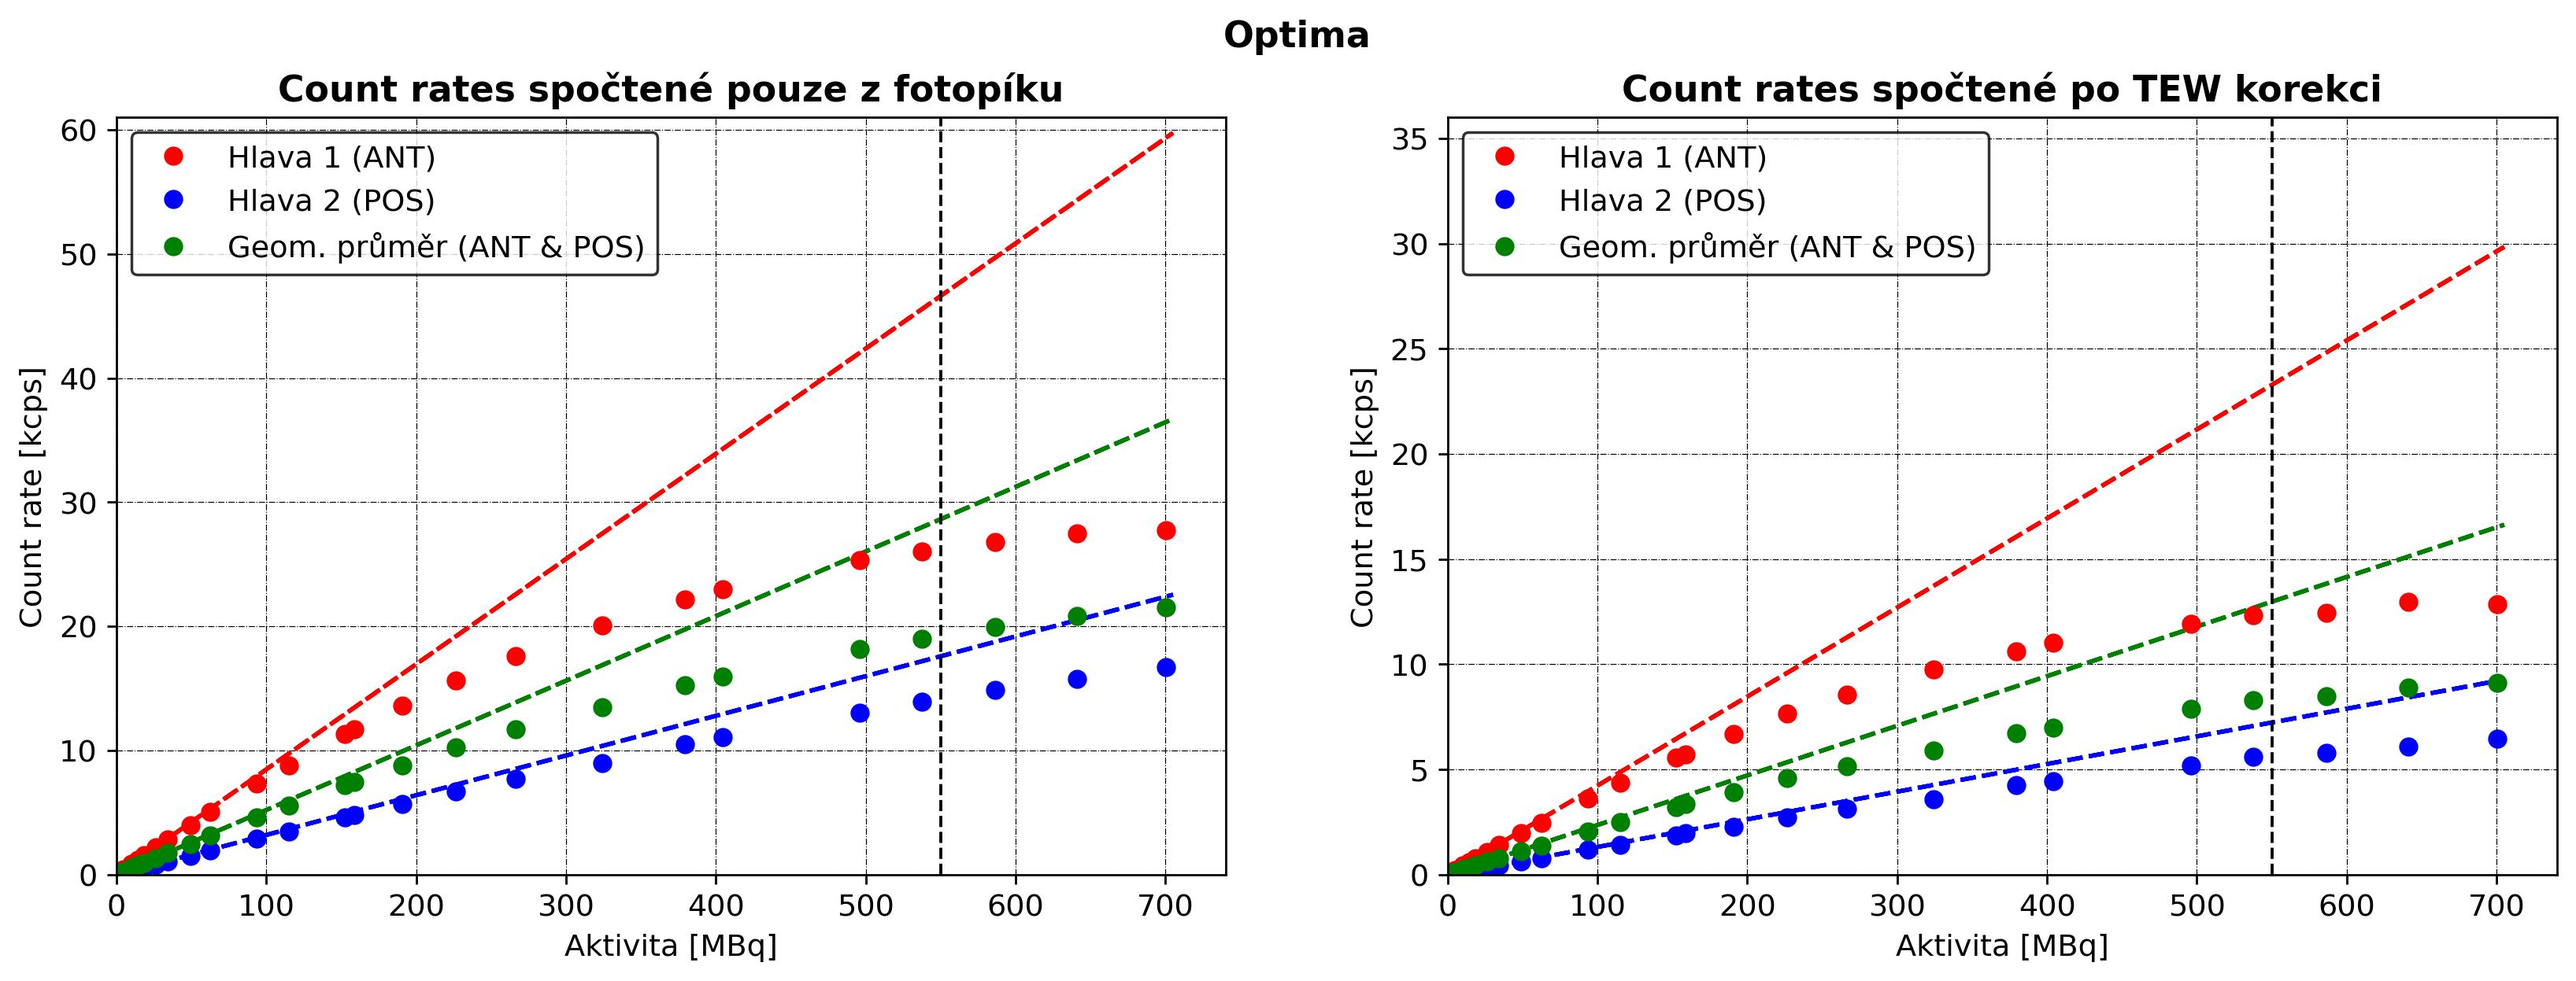
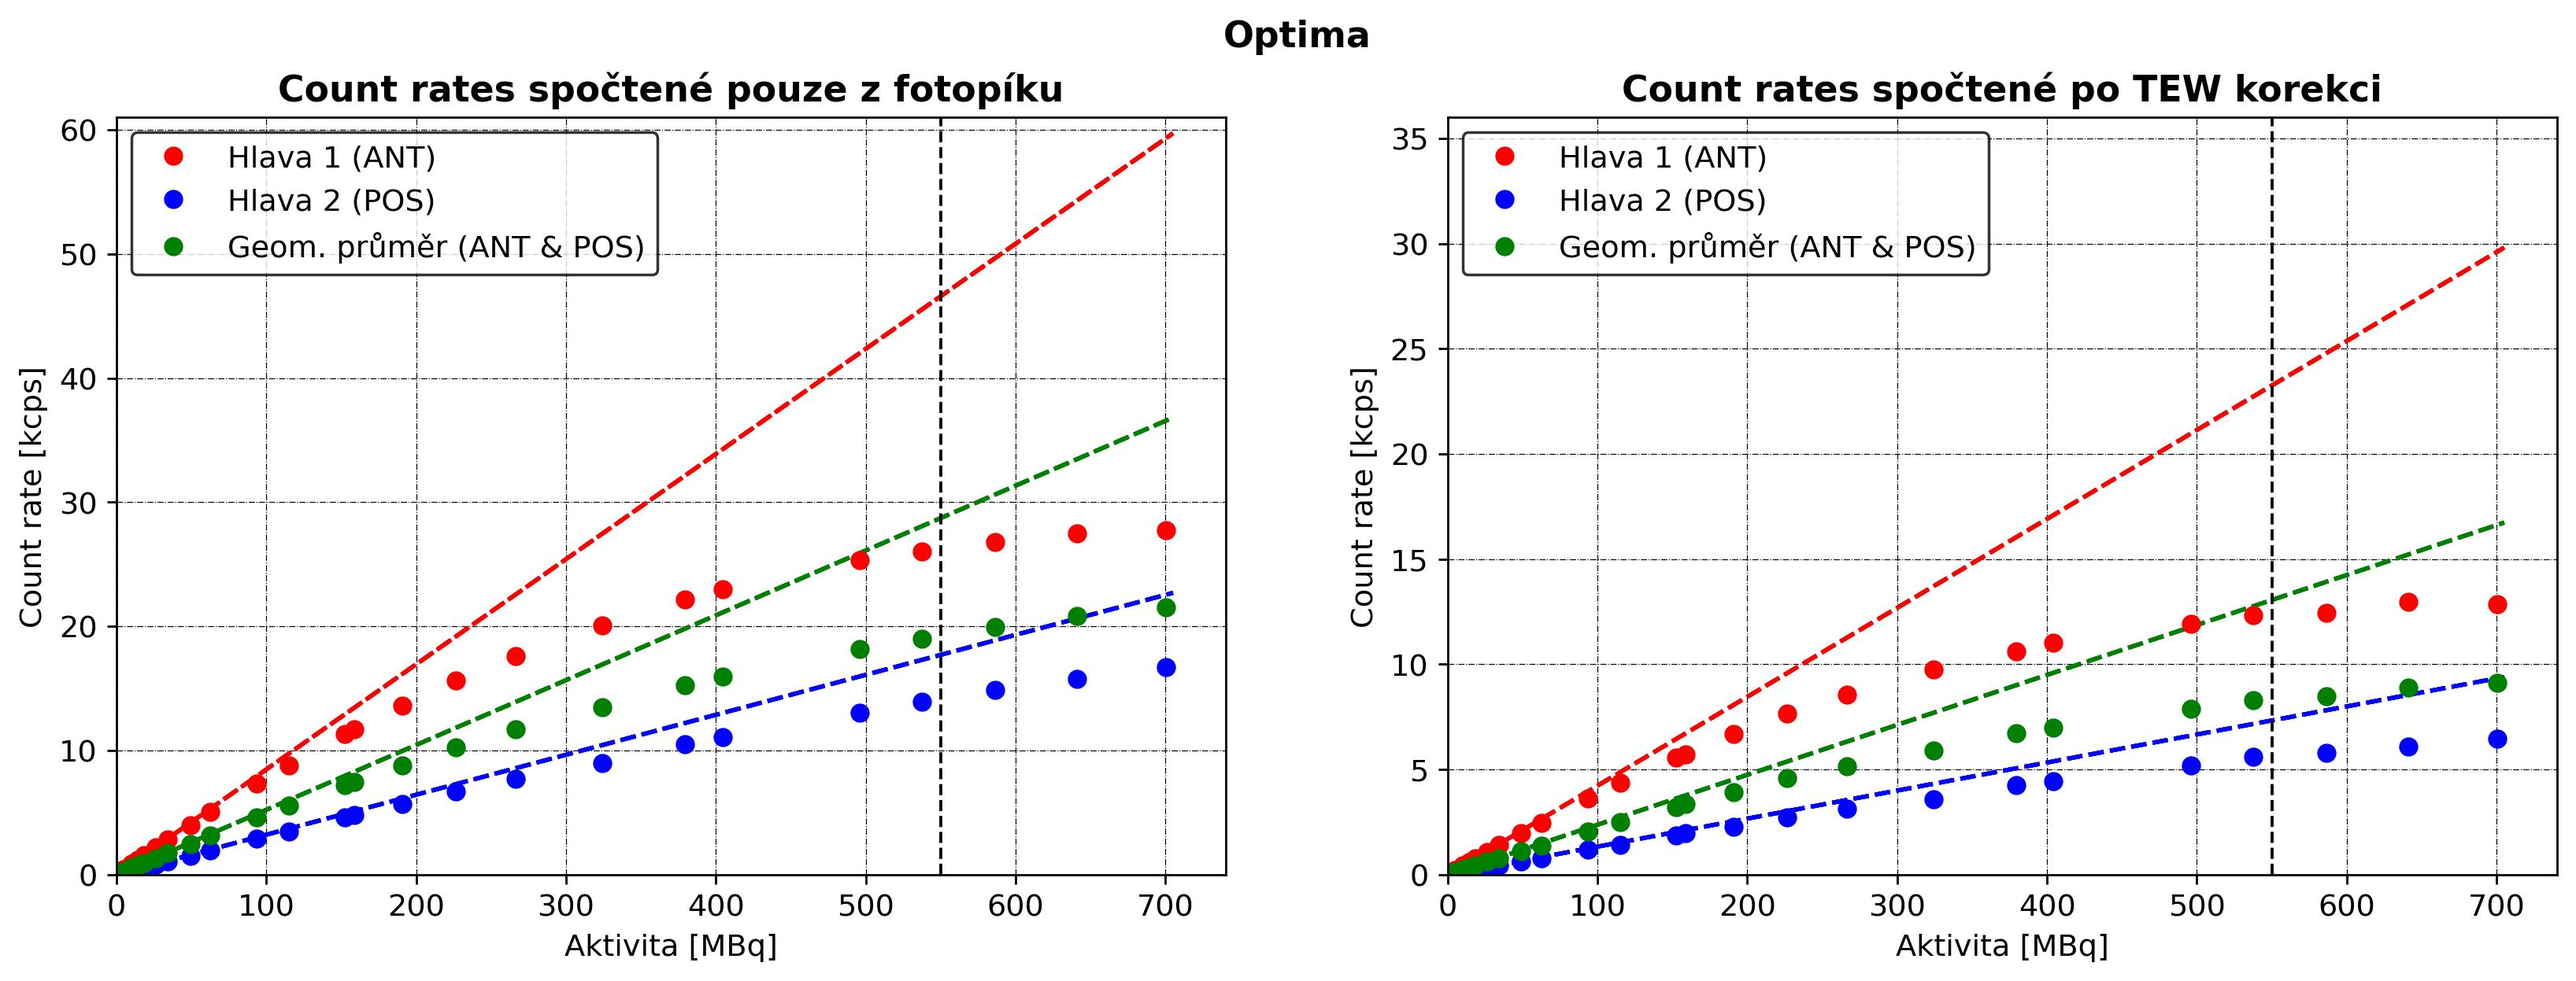
zmena fitu

diff --git a/fitovani.py b/fitovani.py
@@ -31,7 +31,7 @@ def exp_md_fce(x, tau):
 
 def lomenna_md_fce(x, tau):
     x = np.array(list(x))
-    return x / (1 - x*tau)
+    return x / (1 + x*tau)
 
 def exp_md_fit(x_a_y_data):
     teor_cps = np.array(x_a_y_data[0])
